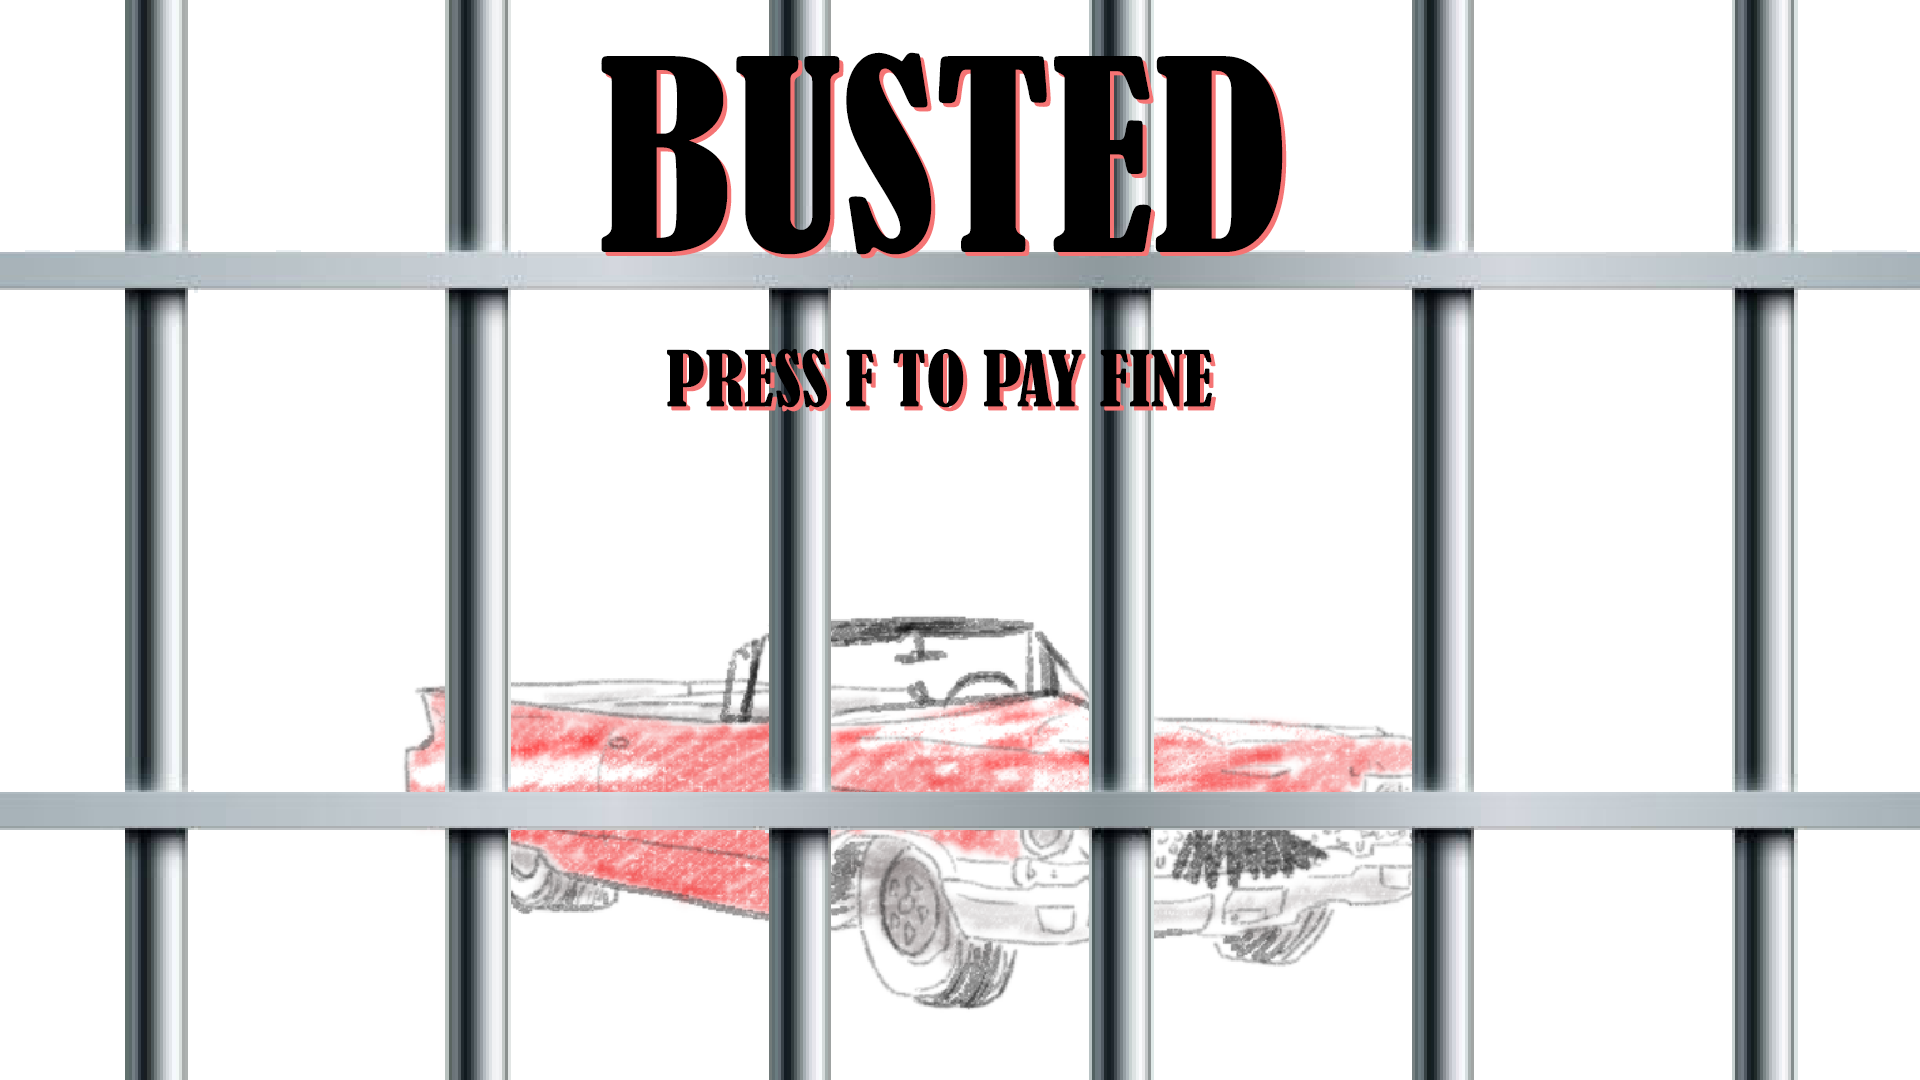
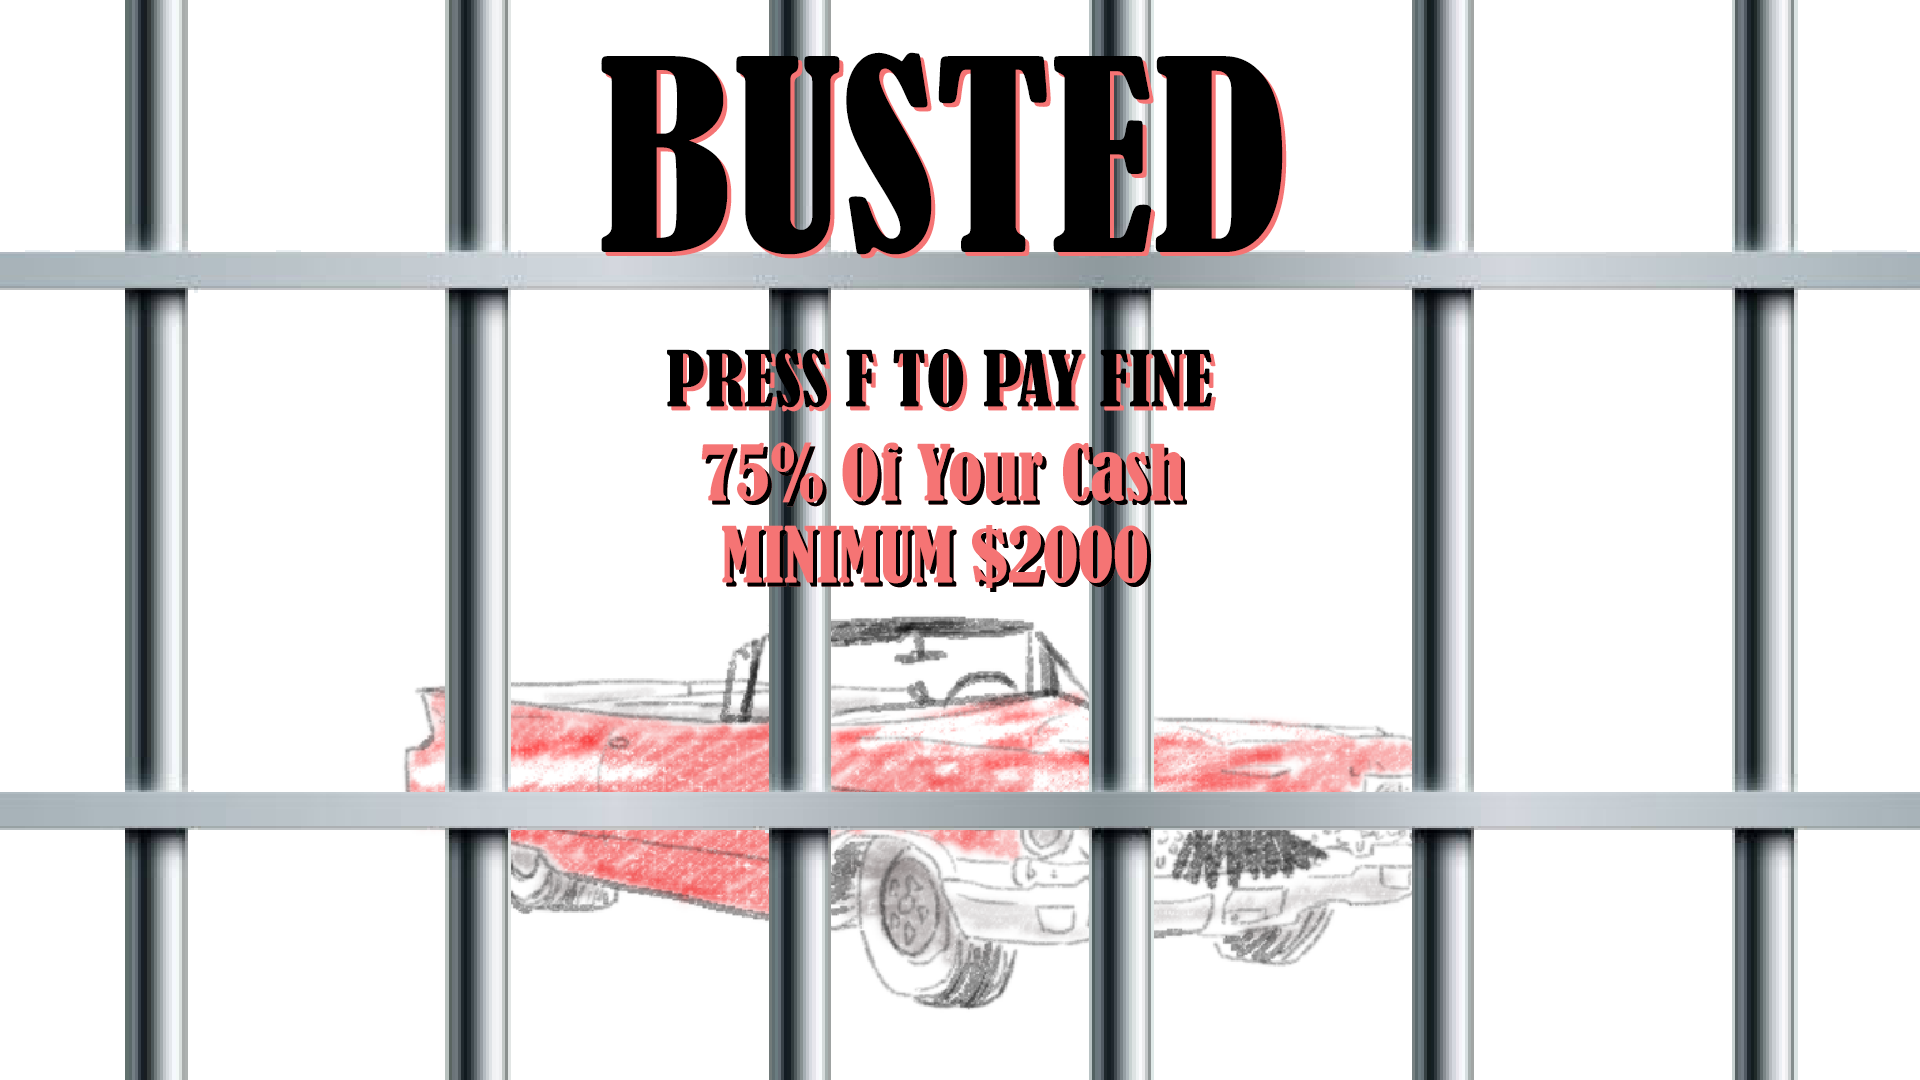
tuning exit,rob,jail

Changed region(s): [[0.3438, 0.3972, 0.625, 0.55]]

diff --git a/AL_CARPONE/main.cpp b/AL_CARPONE/main.cpp
@@ -53,9 +53,6 @@ int main()
 	
 	cout << "Initializing AI..." << endl;
 
-	unsigned int bail_cost_init = 1000;
-	unsigned int bail_cost = bail_cost_init;
-
 	//Setup police and driving nodes
 	DrivingNodes* dNodes = new DrivingNodes(
 		load_positions("models/map/PATROL_NODES.obj"), load_edges("models/map/PATROL_NODES.obj"),
@@ -357,18 +354,16 @@ int main()
 		{
 			mainMenu.drawJailScreen(&graphics);
 
-			graphics.shaderText->use();
-			std::string message = "Cost : $" + std::to_string(bail_cost);
-			text_renderer.RenderText(*graphics.shaderText, message, 25.0f, 450.0f, 0.7f, glm::vec3(0.0, 0.0f, 0.0f)); //not displaying
-		
-
 			if (glfwGetKey(graphics.window, GLFW_KEY_F) == GLFW_PRESS) {
+
+				float bail_cost = 2000.f;
+				if (player.getCash() * 0.75 > bail_cost) bail_cost = player.getCash() * 0.75;
+
 				if (!state.f_isHeld) {
 					if (player.getCash() >= bail_cost) {
 						player.setCash(player.getCash() - bail_cost);
 						audio.playSoundEffect(SOUND_SELECTION::PURCHASE_SUCCESS);
 						//player.setPos();
-						bail_cost = bail_cost * 2;
 						PxVec3 p(190.21, 0.96, -194.67);
 						PxQuat q(-0.00, -0.71, 0.00, -0.70);
 
@@ -384,7 +379,6 @@ int main()
 						state.gameLost = true;
 						audio.playSoundEffect(SOUND_SELECTION::PURCHASE_FAIL);
 						audio.playSoundEffect(SOUND_SELECTION::LOSEGAME);
-						bail_cost = bail_cost_init;
 					}
 				}
 				state.f_isHeld = true;
@@ -425,17 +419,17 @@ int main()
 			}
 
 
-			bool playerDetected = false;
+			bool shouldArrest = false;
 
 			for (PoliceCar* p : state.activePoliceVehicles) {
-				if (p->playerDetected) {
-					playerDetected = true;
+				if (p->playerArrestable) {
+					shouldArrest = true;
 					break;
 				}
 			}
 
 
-			if (playerDetected) {
+			if (shouldArrest) {
 
 				player.jailTimer += state.timeStep;
 
@@ -641,10 +635,9 @@ void renderAll(Camera* activeCamera, GraphicsSystem* graphics, MainMenu* mainMen
 		message = "Jail Countdown : " + std::to_string(5 - (int)player->jailTimer);
 		text_renderer->RenderText(*graphics->shaderText, message, 25.0f, 500.0f, 0.7f, glm::vec3(1.0, 1.0f, 1.0f));
 	}
-
-	if (player->alertChancePerFrame > 0) {
-		message = "Alarm Risk : + ";
-		int num = (int)(player->alertChancePerFrame * player->chanceScale / 5);
+	int num = (int)( (float)(player->alarmChancePerCheck - player->baseAlarmChancePerCheck) / (float)(player->baseAlarmChancePerCheck) );
+	if (num > 0) {
+		message = "Alarm Risk : ";
 		while (num > 0) {
 			message += "+ ";
 			num--;

diff --git a/AL_CARPONE/Player.cpp b/AL_CARPONE/Player.cpp
@@ -55,8 +55,6 @@ bool Player::beingChased(State& state) {
 // ROBING FUNCTIONS
 ///////////////////////////////////////////////////////////////////////
 
-
-
 int Player::getCash() {
 	return cash;
 }
@@ -137,11 +135,12 @@ void Player::rob(State& state) {
 	
 	timeSpentRobbing += state.timeStep;
 	
-	alertChancePerFrame += state.timeStep / chanceScale;
-	
 	//printf("TIME[%.2f] CHANCE[%f]\n", timeSpentRobbing,alertChancePerFrame);
 
+	printf("ALARMTIMER: %.2f\n", alarmCheckTimer);
+
 	if (timeSpentRobbing > 1.0f) {
+		alarmCheckTimer += state.timeStep;
 		addCash(cashRobbedPerFrame * cashRateMultiplier * state.timeStep);
 		state.audioSystemPtr->playRobLoop();
 	}
@@ -149,14 +148,22 @@ void Player::rob(State& state) {
 		state.audioSystemPtr->playSoundEffect(SOUND_SELECTION::OPEN_DUFFLE);
 	}
 
-
-	if (((float)(rand() % 1000) / 1000.0f) < alertChancePerFrame) {
-		state.alertPolice();
-		glm::vec3 pos = state.playerPtr->getPos();
-		state.audioSystemPtr->triggerBankAlarm(pos.x,pos.y,pos.z);
-		state.audioSystemPtr->stopSound(SOUND_SELECTION::ROB_LOOP);
-		state.audioSystemPtr->stopSound(SOUND_SELECTION::OPEN_DUFFLE);
+	if (alarmCheckTimer > alarmCheckInterval) {
+		printf("ALARMTIMER: %.2f > %.2f\n", alarmCheckTimer, alarmCheckInterval);
+		float random = (float)(rand() % 101) / 100.f;
+		if (random < alarmChancePerCheck) {
+			state.alertPolice();
+			glm::vec3 pos = state.playerPtr->getPos();
+			state.audioSystemPtr->triggerBankAlarm(pos.x, pos.y, pos.z);
+			state.audioSystemPtr->stopSound(SOUND_SELECTION::ROB_LOOP);
+			state.audioSystemPtr->stopSound(SOUND_SELECTION::OPEN_DUFFLE);
+		}
+		alarmCheckTimer = 0.f;
+		alarmChancePerCheck *= 1.5f;
 	}
+
+
+
 
 // CASH_ROBBED_PER_FRAME* state.timeStep
 }
@@ -169,7 +176,6 @@ void Player::rob(State& state) {
 // Handle all key inputs relevant to driving
 void Player::handleInput(GLFWwindow* window, State& state)
 {
-
 
 
 	// Handle interactions
@@ -194,9 +200,9 @@ void Player::handleInput(GLFWwindow* window, State& state)
 		}
 	}
 
-	if (alertChancePerFrame > 0) {
-		alertChancePerFrame -= state.timeStep / (3.0f * chanceScale);
-		if (alertChancePerFrame < 0) alertChancePerFrame = 0;
+	if (alarmChancePerCheck > baseAlarmChancePerCheck) {
+		alarmChancePerCheck -= state.timeStep / (100.f * (float)baseAlarmChancePerCheck);
+		if (alarmChancePerCheck < baseAlarmChancePerCheck) alarmChancePerCheck = baseAlarmChancePerCheck;
 	}
 
 	if (glfwGetKey(window, GLFW_KEY_W) == GLFW_PRESS) {

diff --git a/AL_CARPONE/PoliceCar.h b/AL_CARPONE/PoliceCar.h
@@ -32,8 +32,13 @@ public:
 
 	AISTATE ai_state = AISTATE::PATROL;
 	//BoxTrigger* headlights;
-	unsigned int baseDetectionRadius = 30.f;
-	unsigned int detectionRadius = baseDetectionRadius;
+	float baseDetectionRadius = 30.f;
+	float detectionRadius = baseDetectionRadius;
+
+	float baseJailRadius = 10.f;
+	float jailRadius = baseJailRadius;
+
+
 	DrivingNodes* dNodes;
 	bool isStunned;
 
@@ -60,6 +65,8 @@ public:
 	bool playerInTrigger; //Player in trigger volume
 	bool playerInSight; //Raycast to player successful
 	bool playerDetected; //playerInTrigger && playerInSight
+	bool playerInJailRadius; 
+	bool playerArrestable; //playerInJailRadius && playerInSight
 	
 	//debug
 	glm::vec3 getTargetDirection() {

diff --git a/AL_CARPONE/Player.h b/AL_CARPONE/Player.h
@@ -51,8 +51,16 @@ public:
 	float basecashRobbedPerFrame = 500;
 	float cashRobbedPerFrame = basecashRobbedPerFrame;
 
-	double alertChancePerFrame = 0;
-	float chanceScale = 100000.f;
+	float initAlarmChancePerCheck = 0.1f;
+	float baseAlarmChancePerCheck = initAlarmChancePerCheck;
+	float alarmChancePerCheck = baseAlarmChancePerCheck;
+
+	float alarmCheckTimer = 0.f;
+
+	float initAlarmCheckInterval = 2.f;
+	float baseAlarmCheckInterval = initAlarmCheckInterval;
+	float alarmCheckInterval = baseAlarmCheckInterval;
+
 
 	float jailTimer = 0;
 

diff --git a/AL_CARPONE/PoliceCar.cpp b/AL_CARPONE/PoliceCar.cpp
@@ -50,8 +50,10 @@ void PoliceCar::update(glm::vec3 playerPos,State& state) {
 
 	distanceToPlayer = glm::distance(playerPos, myPos);
 	playerInTrigger = distanceToPlayer < detectionRadius;
+	playerInJailRadius = distanceToPlayer < jailRadius;
 	playerInSight = !gScene->raycast(origin, unitDir, distanceToPlayer, hit, PxHitFlag::eMESH_BOTH_SIDES);
 	playerDetected = playerInSight && playerInTrigger;
+	playerArrestable = playerInSight && playerInJailRadius;
 
 	if (playerDetected) state.alertPolice();
 

diff --git a/AL_CARPONE/Exit.cpp b/AL_CARPONE/Exit.cpp
@@ -7,7 +7,7 @@ void Exit::createTrigger() {
 }
 
 void Exit::triggerFunction(Player& player, State& state) {
-	if (player.getCash() >= 100000.f && !state.policeAlerted()) {
+	if (player.getCash() >= 1000000.f && !state.policeAlerted()) {
 		state.gameWon = true;
 		state.audioSystemPtr->stopMusic();
 		state.audioSystemPtr->playSoundEffect(SOUND_SELECTION::WINGAME);
